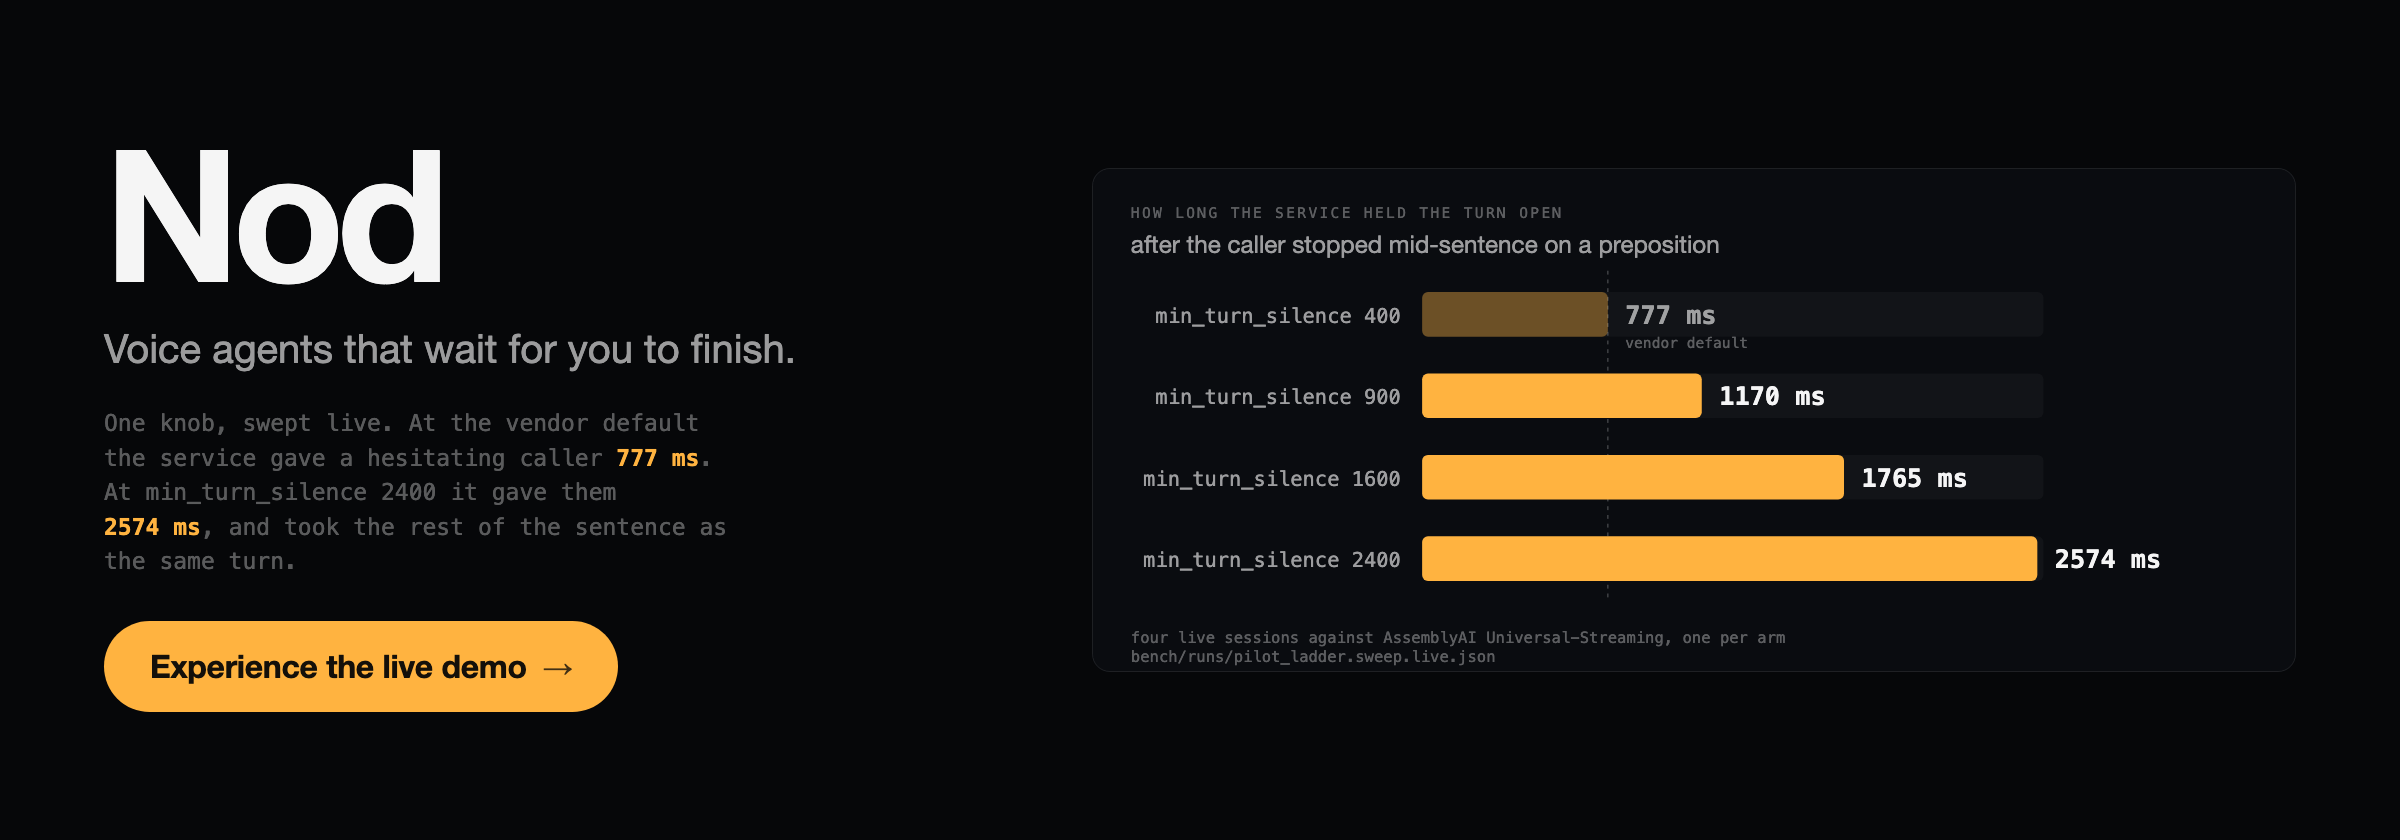
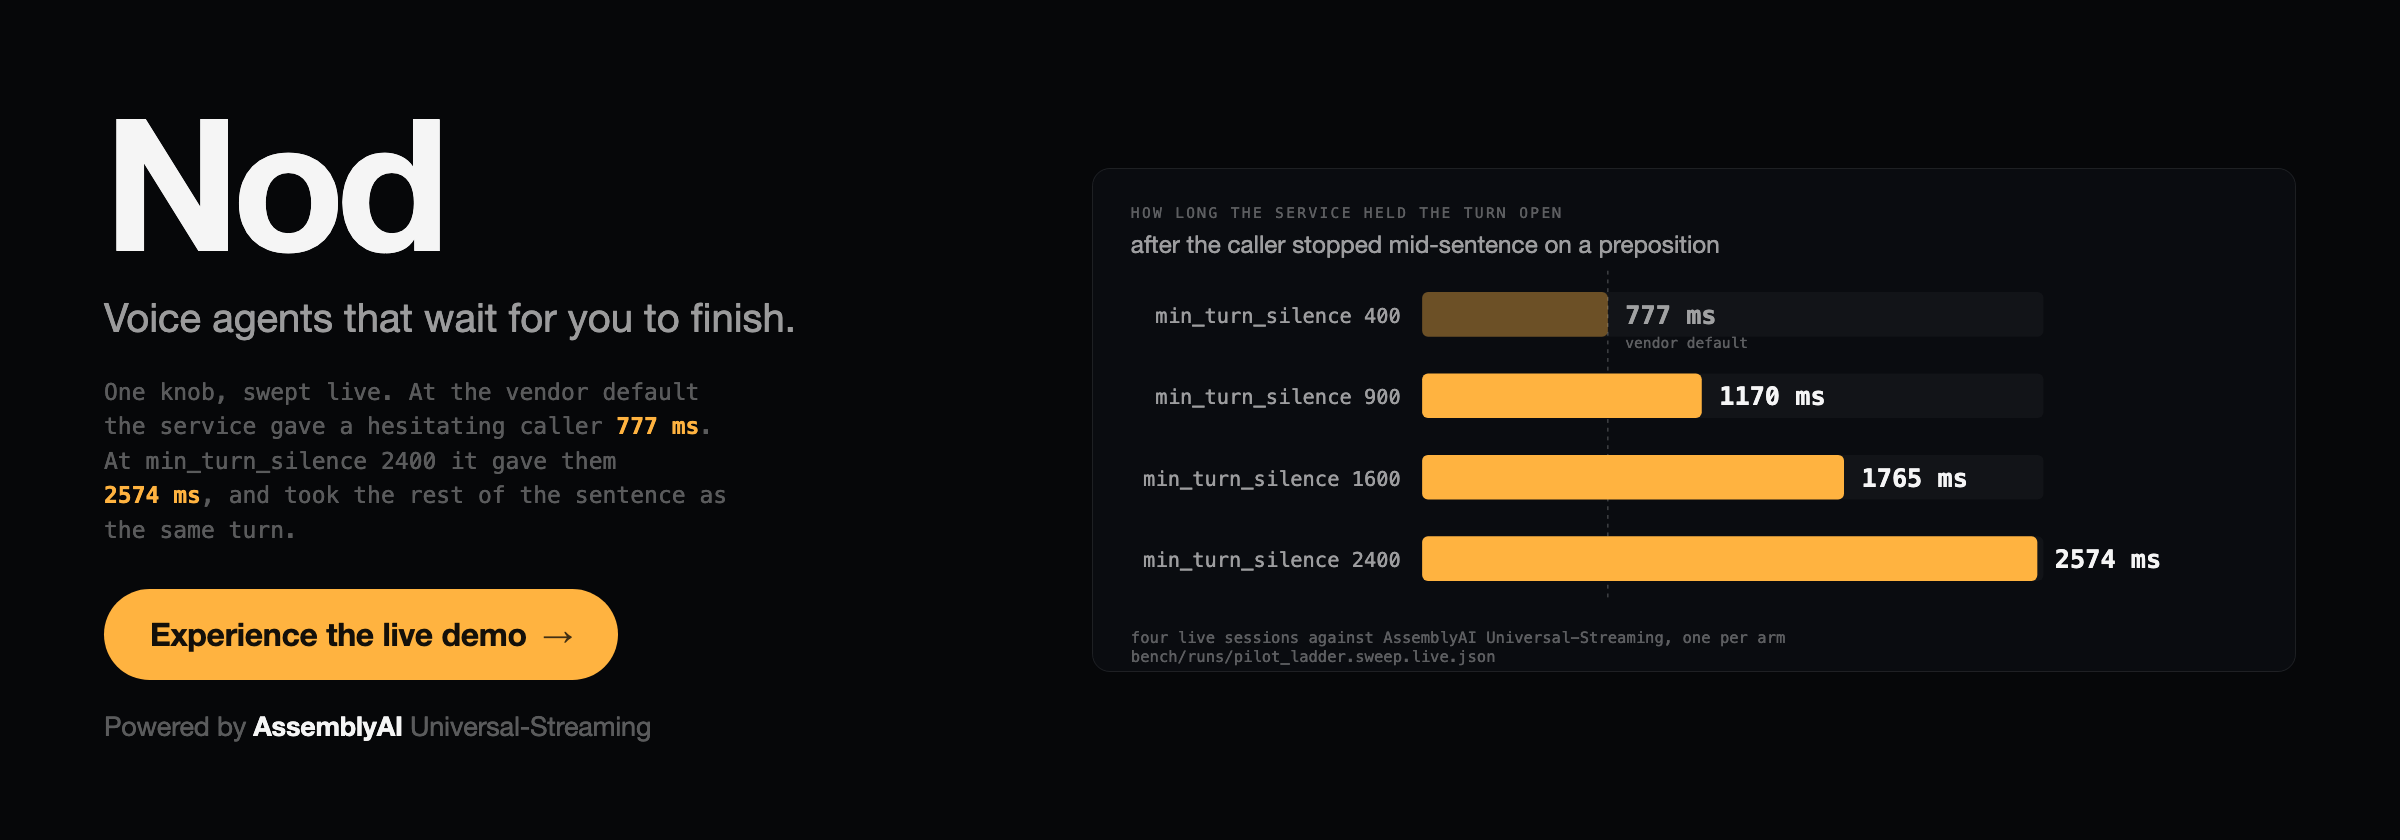
docs: AssemblyAI attribution, and three claims that had gone stale
Requested, and verified before shipping:

- README carries an AssemblyAI badge first in the row, linking to assemblyai.com.
- The banner reads "Powered by AssemblyAI Universal-Streaming" under the button,
  regenerated through `make banner` rather than edited.

`?logo=assemblyai` is deliberately absent. Shields returns 200 for any logo
name, so a 200 proves nothing; comparing rendered widths settles it, and
`logo=assemblyai` comes back 62px against a 62px no-logo baseline while
`logo=python` comes back 79px. Shields has no AssemblyAI icon and the badge
would have shipped silently missing it. Amber #FFB340 rather than a guessed
brand hex: I could not read AssemblyAI's brand colour from a source I trust, and
the project's own accent is the honest choice over an invented one. The dark
variant was rejected because it disappears against GitHub's dark theme.

Three stale claims found by auditing every command in a non-code file against
the Makefile, which is the check CLAUDE.md §5 asks for before a repo goes public:

1. **`make deploy-teardown` is cited twice and exists nowhere** — DEPLOYMENT §3
   and scripts/deploy_aws.sh. Same shape as the `make seed` defect. Marked as
   unbuilt in both rather than written: an untested destructive cloud script is
   worse than an honest note. DEPLOYMENT now carries the actual aws commands,
   and records what is genuinely left in the account (ECR `nod`, CodeBuild
   `nod-build`, both idle).
[…]

Changed region(s): [[0.0312, 0.4643, 0.3125, 0.8976], [0.0312, 0.1238, 0.1875, 0.3405], [0.0312, 0.3714, 0.3438, 0.4333]]

diff --git a/docs/banner.html b/docs/banner.html
@@ -44,6 +44,11 @@
     padding: 26px 46px; border-radius: 999px;
   }
   .btn .arr { font-size: 30px; opacity: .8; }
+  .powered {
+    margin: 30px 0 0; font-size: 27px; color: rgba(255,255,255,.34);
+    letter-spacing: -0.2px;
+  }
+  .powered b { color: rgba(255,255,255,.96); font-weight: 600; }
   .right { flex: none; }
   .right img { width: 1204px; display: block; }
 </style>
@@ -56,6 +61,7 @@
       <code>min_turn_silence&nbsp;2400</code> it gave them <b>2574&nbsp;ms</b>,
       and took the rest of the sentence as the same turn.</p>
     <span class="btn">Experience the live demo <span class="arr">&#8594;</span></span>
+    <p class="powered">Powered by <b>AssemblyAI</b> Universal-Streaming</p>
   </div>
   <div class="right"><img src="patience.svg" alt="Turn held open, by min_turn_silence"></div>
 </body>

diff --git a/scripts/figures.py b/scripts/figures.py
@@ -416,6 +416,11 @@ def banner_html() -> str:
     padding: 26px 46px; border-radius: 999px;
   }}
   .btn .arr {{ font-size: 30px; opacity: .8; }}
+  .powered {{
+    margin: 30px 0 0; font-size: 27px; color: {INK_FAINT};
+    letter-spacing: -0.2px;
+  }}
+  .powered b {{ color: {INK}; font-weight: 600; }}
   .right {{ flex: none; }}
   .right img {{ width: 1204px; display: block; }}
 </style>
@@ -428,6 +433,7 @@ def banner_html() -> str:
       <code>min_turn_silence&nbsp;2400</code> it gave them <b>2574&nbsp;ms</b>,
       and took the rest of the sentence as the same turn.</p>
     <span class="btn">Experience the live demo <span class="arr">&#8594;</span></span>
+    <p class="powered">Powered by <b>AssemblyAI</b> Universal-Streaming</p>
   </div>
   <div class="right"><img src="patience.svg" alt="Turn held open, by min_turn_silence"></div>
 </body>

diff --git a/docs/DEPLOYMENT.md b/docs/DEPLOYMENT.md
@@ -43,8 +43,27 @@
 > answers 404 from the same path. `/healthz`, `/readyz`, `/metrics`, the demo page and the
 > 501s all work, because all of them are plain HTTP; everything the product does is not.
 >
-> The ECR repository, the CodeBuild project and the App Runner service are **left in
-> place** deliberately until a replacement is proven. `make deploy-teardown` removes them.
+> The ECR repository, the CodeBuild project and the App Runner service were **left in
+> place** deliberately until a replacement was proven.
+>
+> **Corrected at Gate 6.** The replacement is proven: Nod runs on Fly (ADR-064). Two
+> things in the sentence above were wrong by then and are stated here rather than fixed
+> silently. The App Runner service is **already gone** (`aws apprunner list-services`
+> returns nothing). And **`make deploy-teardown` was never built** — it is cited here and
+> in `scripts/deploy_aws.sh`, and exists in neither, which is the CLAUDE.md §5 defect
+> about commands that appear only in files nothing executes. It is marked rather than
+> written, because an untested destructive cloud script is worse than an honest note.
+> What is actually left in the account is the ECR repository `nod` and the CodeBuild
+> project `nod-build`, both idle. They are removed by:
+>
+>     aws ecr delete-repository --repository-name nod --force --region us-east-1
+>     aws codebuild delete-project --name nod-build --region us-east-1
+>     aws s3 rb "s3://nod-build-$(aws sts get-caller-identity --query Account --output text)" --force
+>     aws iam delete-role-policy --role-name nod-codebuild --policy-name nod-build
+>     aws iam delete-role --role-name nod-codebuild
+>     aws iam delete-role --role-name nod-apprunner-ecr
+>
+> Neither of those two was run by the session that wrote this.
 
 > **23 Sep, Gate 4e — two of the three blockers cleared, one remains.**
 >

diff --git a/docs/ROADMAP.md b/docs/ROADMAP.md
@@ -133,11 +133,16 @@ to start unless `predict` has written its file first.
 attributes live boundaries to gaps with it. Every live PCR figure is suspect. Named, not
 fixed.
 
-**Deploy is blocked on one thing only, and it is no longer the repo.** The six commits are
-pushed. AWS is authenticated and the ECR repository exists; creating the build role and
-source bucket is refused by this session's permission layer, so `scripts/deploy_aws.sh`
-is written and unrun. **The GitHub repo is private**, which the submission requires it not
-to be.
+**Deploy was blocked; it no longer is, and both halves of that sentence have since
+changed.** As written at Gate 4e: the six commits were pushed, AWS was authenticated and
+the ECR repository existed, creating the build role and source bucket was refused by that
+session's permission layer, and the GitHub repo was private.
+
+**Resolved at Gate 6, and corrected here rather than left to read as current status.**
+The repository is **public**. The AWS path was abandoned entirely: App Runner refuses
+WebSocket upgrades at its ingress, which is the whole product (ADR-064). Nod is deployed
+on Fly and verified live at <https://nod-turn-timing.fly.dev> — both sockets upgrade,
+one full call returns turns in `observe` mode.
 
 **The human ladder recording has not been supplied**, so the `say`-to-human
 generalisation is still open. It is now a smaller question — where `C` sits on a human

diff --git a/README.md b/README.md
@@ -1,5 +1,6 @@
 [![Nod](docs/banner.png)](https://nod-turn-timing.fly.dev)
 
+[![Powered by AssemblyAI](https://img.shields.io/badge/Powered%20by-AssemblyAI-FFB340)](https://www.assemblyai.com/)
 [![CI](https://github.com/DeepakKTS/NOD/actions/workflows/ci.yml/badge.svg)](https://github.com/DeepakKTS/NOD/actions/workflows/ci.yml)
 
 Every deployed voice agent picks one silence threshold and applies it to every human
